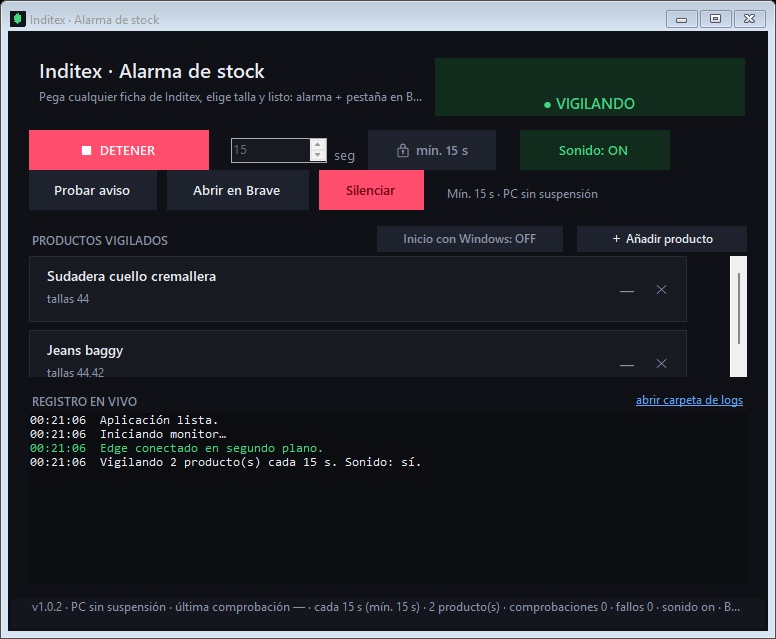
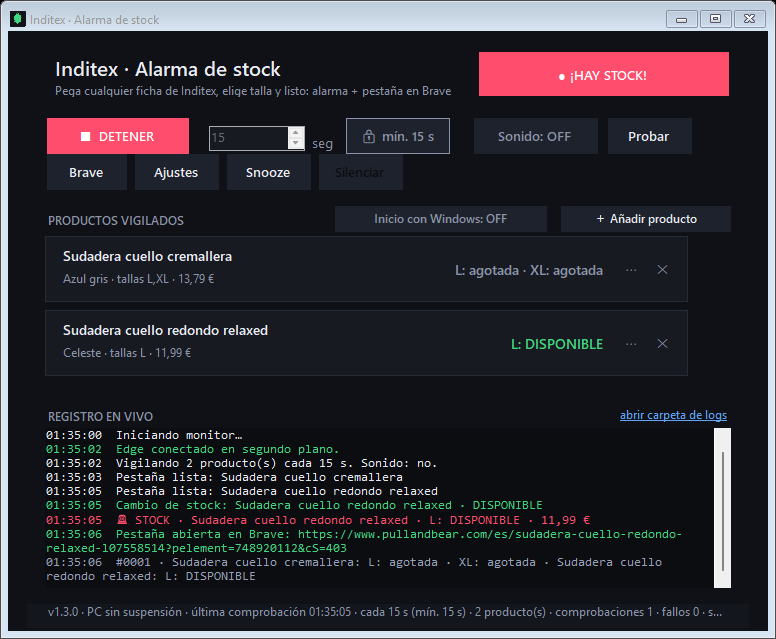
feat: interfaz centrada y compacta, log con ajuste de linea

diff --git a/MainForm.cs b/MainForm.cs
@@ -39,6 +39,7 @@ public sealed class MainForm : Form
 
     private Label _pill = null!;
     private Label _foot = null!;
+    private Panel _content = null!;
     private Button _btnToggle = null!;
     private Button _btnSilence = null!;
     private Button _btnSound = null!;
@@ -109,16 +110,6 @@ public sealed class MainForm : Form
     {
         base.OnHandleCreated(e);
         NativeMethods.DarkTitleBar(Handle);
-    }
-
-    protected override void OnResize(EventArgs e)
-    {
-        base.OnResize(e);
-        if (WindowState == FormWindowState.Minimized)
-        {
-            Hide();
-            _tray.ShowBalloonTip(2500, "Inditex Stock Alarm", "Sigue vigilando en segundo plano.", ToolTipIcon.Info);
-        }
     }
 
     private async void OnShown(object? sender, EventArgs e)
@@ -199,8 +190,8 @@ public sealed class MainForm : Form
     {
         SuspendLayout();
         Text = "Inditex · Alarma de stock";
-        ClientSize = new Size(1100, 800);
-        MinimumSize = new Size(720, 560);
+        ClientSize = new Size(1120, 800);
+        MinimumSize = new Size(760, 600);
         BackColor = Palette.Bg;
         ForeColor = Palette.Text;
         Font = new Font("Segoe UI", 9.75f);
@@ -214,19 +205,43 @@ public sealed class MainForm : Form
             BackColor = Palette.Bg
         };
         root.ColumnStyles.Add(new ColumnStyle(SizeType.Percent, 100));
-        root.RowStyles.Add(new RowStyle(SizeType.Absolute, 88));
+        root.RowStyles.Add(new RowStyle(SizeType.Absolute, 76));
         root.RowStyles.Add(new RowStyle(SizeType.AutoSize));
-        root.RowStyles.Add(new RowStyle(SizeType.Percent, 44));
-        root.RowStyles.Add(new RowStyle(SizeType.Percent, 56));
-        root.RowStyles.Add(new RowStyle(SizeType.Absolute, 34));
+        root.RowStyles.Add(new RowStyle(SizeType.Absolute, 200));
+        root.RowStyles.Add(new RowStyle(SizeType.Percent, 100));
+        root.RowStyles.Add(new RowStyle(SizeType.Absolute, 30));
 
         root.Controls.Add(BuildHeader(), 0, 0);
         root.Controls.Add(BuildControls(), 0, 1);
         root.Controls.Add(BuildItems(), 0, 2);
         root.Controls.Add(BuildLogPanel(), 0, 3);
         root.Controls.Add(BuildFooter(), 0, 4);
-        Controls.Add(root);
+
+        _content = new Panel { BackColor = Palette.Bg };
+        _content.Controls.Add(root);
+        Controls.Add(_content);
+        PositionContent();
         ResumeLayout();
+    }
+
+    private void PositionContent()
+    {
+        if (_content is null) return;
+
+        var width = Math.Min(1120, Math.Max(600, ClientSize.Width - 32));
+        _content.Bounds = new Rectangle((ClientSize.Width - width) / 2, 0, width, ClientSize.Height);
+    }
+
+    protected override void OnResize(EventArgs e)
+    {
+        base.OnResize(e);
+        PositionContent();
+
+        if (WindowState == FormWindowState.Minimized)
+        {
+            Hide();
+            _tray.ShowBalloonTip(2500, "Inditex Stock Alarm", "Sigue vigilando en segundo plano.", ToolTipIcon.Info);
+        }
     }
 
     private Control BuildHeader()
@@ -235,17 +250,19 @@ public sealed class MainForm : Form
         {
             Dock = DockStyle.Fill,
             ColumnCount = 2,
+            RowCount = 1,
             BackColor = Palette.Bg,
-            Padding = new Padding(20, 16, 20, 6)
+            Padding = new Padding(20, 14, 20, 4)
         };
+        header.RowStyles.Add(new RowStyle(SizeType.Percent, 100));
         header.ColumnStyles.Add(new ColumnStyle(SizeType.Percent, 100));
-        header.ColumnStyles.Add(new ColumnStyle(SizeType.Absolute, 310));
+        header.ColumnStyles.Add(new ColumnStyle(SizeType.Absolute, 250));
 
         var left = new Panel { Dock = DockStyle.Fill, BackColor = Palette.Bg };
         left.Controls.Add(new Label
         {
             Text = "Inditex · Alarma de stock",
-            Font = new Font("Segoe UI Semibold", 15f),
+            Font = new Font("Segoe UI Semibold", 14.5f),
             ForeColor = Palette.Text,
             AutoSize = true,
             Location = new Point(0, 2)
@@ -258,7 +275,7 @@ public sealed class MainForm : Form
             ForeColor = Palette.Muted,
             AutoSize = false,
             AutoEllipsis = true,
-            Location = new Point(2, 36),
+            Location = new Point(2, 32),
             Size = new Size(420, 18)
         };
         left.Controls.Add(subtitle);
@@ -269,10 +286,10 @@ public sealed class MainForm : Form
         _pill = new Label
         {
             Dock = DockStyle.Fill,
-            Margin = new Padding(0, 8, 0, 8),
+            Margin = new Padding(0, 4, 0, 4),
             Text = "● DETENIDO",
             TextAlign = ContentAlignment.MiddleCenter,
-            Font = new Font("Segoe UI Semibold", 11f),
+            Font = new Font("Segoe UI Semibold", 9.5f),
             ForeColor = Palette.Muted,
             BackColor = Palette.Chip
         };
@@ -288,11 +305,11 @@ public sealed class MainForm : Form
             BackColor = Palette.Bg,
             AutoSize = true,
             AutoSizeMode = AutoSizeMode.GrowAndShrink,
-            Padding = new Padding(18, 8, 18, 8),
+            Padding = new Padding(20, 8, 20, 8),
             WrapContents = true
         };
 
-        _btnToggle = MakeButton("▶  INICIAR", Palette.Green, Color.FromArgb(8, 28, 17), 180);
+        _btnToggle = MakeButton("▶  INICIAR", Palette.Green, Color.FromArgb(8, 28, 17), 142);
         _btnToggle.Click += async (_, _) =>
         {
             if (_cts is null) await StartMonitorAsync();
@@ -328,12 +345,12 @@ public sealed class MainForm : Form
             Margin = new Padding(0, 16, 0, 0)
         };
 
-        _btnLock = MakeButton(_allowFast ? "🔓 mín. 5 s" : "🔒 mín. 15 s", Palette.Chip, Palette.Text, 128);
+        _btnLock = MakeButton(_allowFast ? "🔓 mín. 5 s" : "🔒 mín. 15 s", Palette.Chip, Palette.Text, 104);
         _btnLock.Margin = new Padding(8, 0, 10, 0);
         _btnLock.ForeColor = _allowFast ? Palette.Amber : Palette.Muted;
         _btnLock.Click += (_, _) => ToggleFast();
 
-        _btnSound = MakeButton("", Palette.Chip, Palette.Text, 150);
+        _btnSound = MakeButton("", Palette.Chip, Palette.Text, 124);
         _btnSound.Margin = new Padding(14, 0, 10, 0);
         _btnSound.Click += (_, _) =>
         {
@@ -346,19 +363,19 @@ public sealed class MainForm : Form
         };
         ApplySoundState();
 
-        var btnTest = MakeButton("Probar aviso", Palette.Chip, Palette.Text, 128);
+        var btnTest = MakeButton("Probar", Palette.Chip, Palette.Text, 84);
         btnTest.Click += (_, _) => TestAlert();
 
-        var btnBrave = MakeButton("Abrir en Brave", Palette.Chip, Palette.Text, 142);
+        var btnBrave = MakeButton("Brave", Palette.Chip, Palette.Text, 80);
         btnBrave.Click += (_, _) => OpenAvailableInBrave();
 
-        var btnSettings = MakeButton("⚙ Ajustes", Palette.Chip, Palette.Text, 106);
+        var btnSettings = MakeButton("Ajustes", Palette.Chip, Palette.Text, 84);
         btnSettings.Click += (_, _) => OpenSettings();
 
-        _btnSnooze = MakeButton("Snooze 30m", Palette.Chip, Palette.Text, 118);
+        _btnSnooze = MakeButton("Snooze", Palette.Chip, Palette.Text, 84);
         _btnSnooze.Click += (_, _) => Snooze();
 
-        _btnSilence = MakeButton("Silenciar", Palette.Red, Color.White, 105);
+        _btnSilence = MakeButton("Silenciar", Palette.Chip, Palette.Red, 84);
         _btnSilence.Enabled = false;
         _btnSilence.Click += (_, _) =>
         {
@@ -366,16 +383,7 @@ public sealed class MainForm : Form
             _btnSilence.Enabled = false;
         };
 
-        var hint = new Label
-        {
-            Text = "Mín. 15 s · PC sin suspensión",
-            AutoSize = true,
-            ForeColor = Palette.Muted,
-            Font = new Font("Segoe UI", 8.5f),
-            Margin = new Padding(10, 16, 0, 0)
-        };
-
-        bar.Controls.AddRange(new Control[] { _btnToggle, _num, lblSeg, _btnLock, _btnSound, btnTest, btnBrave, btnSettings, _btnSnooze, _btnSilence, hint });
+        bar.Controls.AddRange(new Control[] { _btnToggle, _num, lblSeg, _btnLock, _btnSound, btnTest, btnBrave, btnSettings, _btnSnooze, _btnSilence });
         return bar;
     }
 
@@ -383,7 +391,7 @@ public sealed class MainForm : Form
     {
         _alarm.Enabled = _soundEnabled;
         _btnSound.Text = _soundEnabled ? "Sonido: ON" : "Sonido: OFF";
-        _btnSound.BackColor = _soundEnabled ? Palette.GreenBg : Palette.Chip;
+        _btnSound.BackColor = Palette.Chip;
         _btnSound.ForeColor = _soundEnabled ? Palette.Green : Palette.Muted;
     }
 
@@ -527,7 +535,7 @@ public sealed class MainForm : Form
         add.Click += (_, _) => AddItem();
         head.Controls.Add(add);
 
-        _btnStartup = MakeButton("", Palette.Chip, Palette.Muted, 186);
+        _btnStartup = MakeButton("", Palette.Chip, Palette.Muted, 212);
         _btnStartup.Height = 26;
         _btnStartup.Font = new Font("Segoe UI Semibold", 9f);
         _btnStartup.Click += (_, _) => ToggleStartup();
@@ -582,7 +590,7 @@ public sealed class MainForm : Form
             BackColor = Palette.LogBg,
             ForeColor = Palette.Text,
             Font = new Font("Consolas", 9f),
-            WordWrap = false,
+            WordWrap = true,
             DetectUrls = false,
             ScrollBars = RichTextBoxScrollBars.Vertical
         };
@@ -679,13 +687,13 @@ public sealed class MainForm : Form
         {
             Text = text,
             Width = width,
-            Height = 40,
+            Height = 36,
             BackColor = back,
             ForeColor = fore,
             FlatStyle = FlatStyle.Flat,
-            Font = new Font("Segoe UI Semibold", 9.75f),
+            Font = new Font("Segoe UI Semibold", 9.25f),
             Cursor = Cursors.Hand,
-            Margin = new Padding(0, 0, 10, 0),
+            Margin = new Padding(0, 0, 8, 0),
             TabStop = true,
             AccessibleRole = AccessibleRole.PushButton,
             AccessibleName = text
@@ -987,7 +995,8 @@ public sealed class MainForm : Form
         menu.Click += (_, _) => ShowItemMenu(item, menu);
 
         panel.Controls.AddRange(new Control[] { name, sub, status, menu, remove });
-        panel.Resize += (_, _) =>
+
+        void LayoutRow()
         {
             var width = panel.ClientSize.Width;
             var removeX = Math.Max(40, width - remove.Width - 10);
@@ -1002,7 +1011,10 @@ public sealed class MainForm : Form
                 Math.Max(0, (panel.Height - statusHeight) / 2),
                 Math.Max(80, menu.Left - statusX - 10),
                 statusHeight);
-        };
+        }
+
+        panel.Resize += (_, _) => LayoutRow();
+        LayoutRow();
 
         _rows[item.Config.Url] = new ItemRow(name, sub, status, panel, remove, menu);
         return panel;
